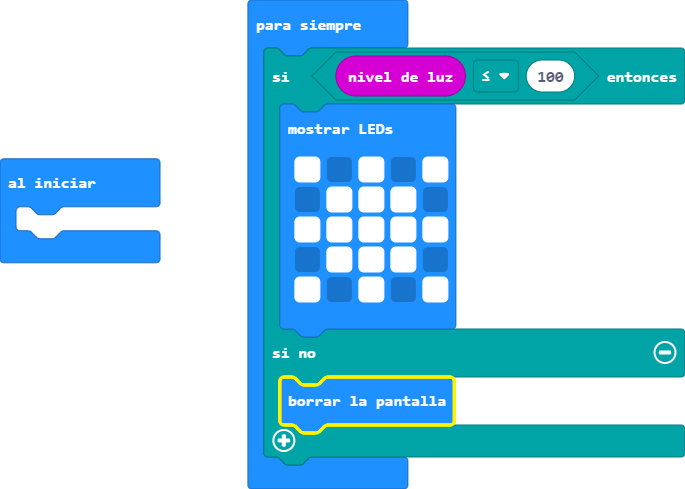
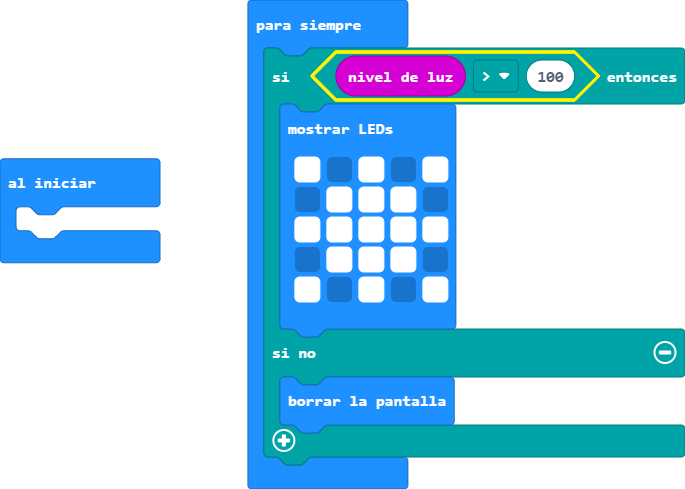
Actualizar main.blocks, main.ts

Changed region(s): [[0.4599, 0.092, 0.8891, 0.2147], [0.3985, 0.7669, 0.6745, 0.8896]]

diff --git a/main.ts b/main.ts
@@ -1,5 +1,5 @@
 basic.forever(function () {
-    if (input.lightLevel() <= 100) {
+    if (input.lightLevel() > 100) {
         basic.showLeds(`
             # . # . #
             . # # # .
